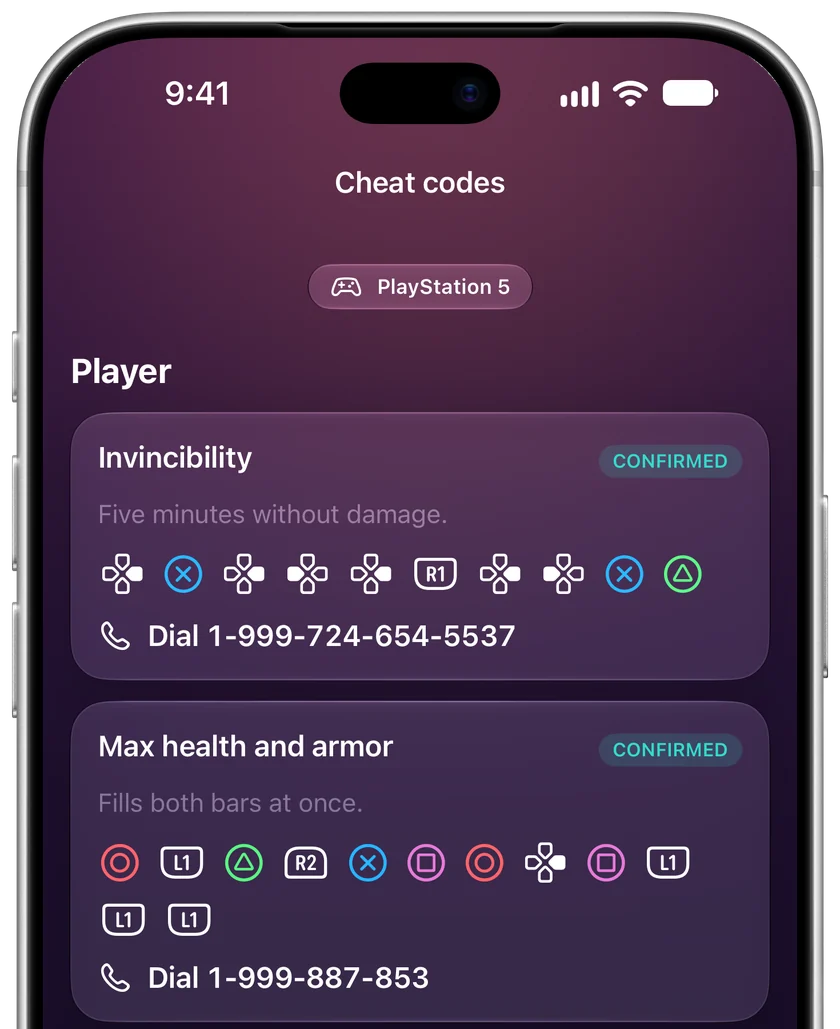
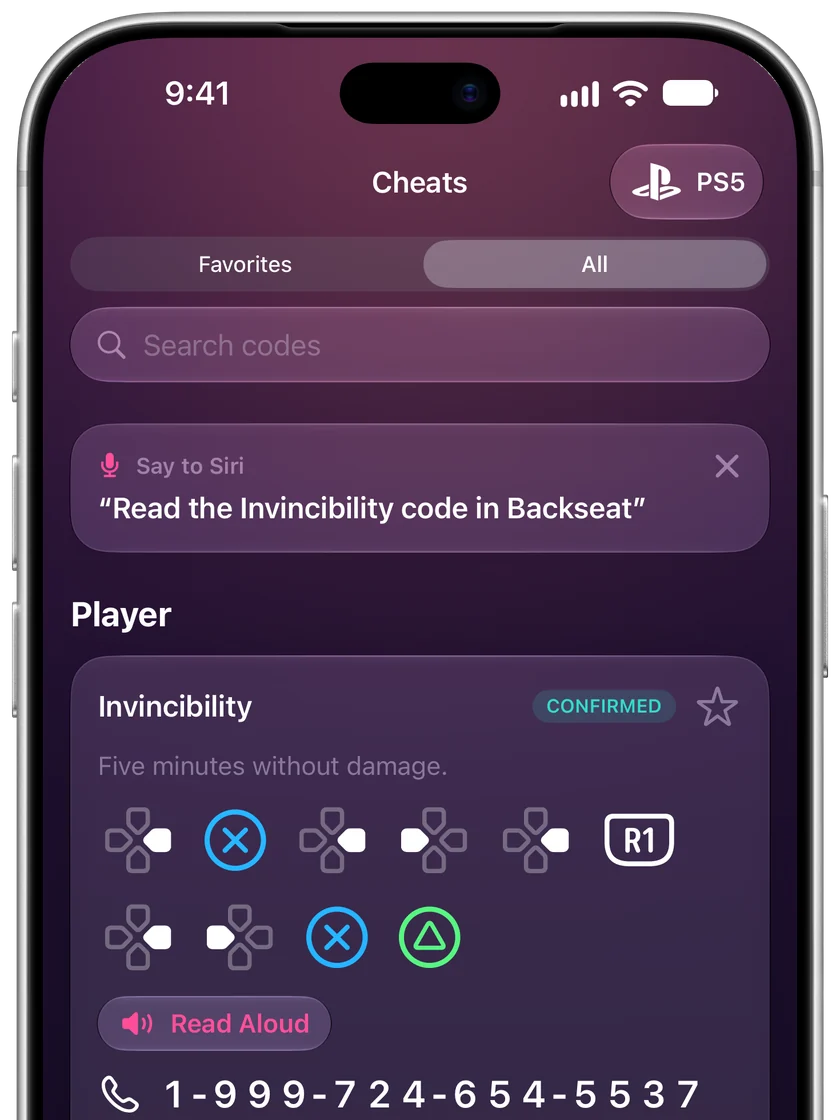
Landing for 1.2: Read Aloud, Siri and widgets, new phones
The hero combo plays Read Aloud as the app does: a pause, a ring moving from
press to press, called presses fading, Stop on the button. New panels for Read
Aloud, Siri and Shortcuts, and the widgets; Favorites and search join the codes
panel. Questions on Siri, the widgets and Backseat Pro. The phones come from the
1.2 build with GTA V codes as stand-ins (PS5 in the app, Xbox in the widget).
Meta, link preview and the unlock-times blurb mention the new features.

diff --git a/index.html b/index.html
@@ -4,7 +4,7 @@
 <meta charset="utf-8">
 <meta name="viewport" content="width=device-width, initial-scale=1, viewport-fit=cover">
 <title>Backseat: cheat codes, news and guides for GTA VI</title>
-<meta name="description" content="Backseat shows GTA VI cheat codes with the buttons for your PS5 or Xbox, plus news and short guides. A free, unofficial fan app for iPhone.">
+<meta name="description" content="Backseat shows GTA VI cheat codes with the buttons for your PS5 or Xbox and reads them aloud. Ask Siri for a code or keep one in a widget. A free, unofficial fan app for iPhone.">
 <meta name="theme-color" content="#0F0A1C">
 <meta name="apple-itunes-app" content="app-id=6830724358">
 <link rel="icon" type="image/png" href="favicon.png">
@@ -13,9 +13,9 @@
 <meta property="og:type" content="website">
 <meta property="og:site_name" content="Backseat">
 <meta property="og:title" content="Backseat: GTA VI cheat codes, guides and more">
-<meta property="og:description" content="Backseat shows GTA VI cheat codes with the buttons for your PS5 or Xbox, plus news and short guides. A free, unofficial fan app for iPhone.">
+<meta property="og:description" content="Backseat shows GTA VI cheat codes with the buttons for your PS5 or Xbox and reads them aloud. Ask Siri for a code or keep one in a widget. A free, unofficial fan app for iPhone.">
 <meta property="og:url" content="https://getbackseat.app/">
-<meta property="og:image" content="https://getbackseat.app/assets/landing/og.png?v=4">
+<meta property="og:image" content="https://getbackseat.app/assets/landing/og.png?v=5">
 <meta property="og:image:width" content="1200">
 <meta property="og:image:height" content="630">
 <meta name="twitter:card" content="summary_large_image">
@@ -26,10 +26,11 @@
   "@type": "MobileApplication",
   "name": "Backseat",
   "url": "https://getbackseat.app/",
-  "description": "Backseat shows GTA VI cheat codes with the buttons for your PS5 or Xbox, plus news and short guides. A free, unofficial fan app for iPhone.",
+  "description": "Backseat shows GTA VI cheat codes with the buttons for your PS5 or Xbox and reads them aloud. Ask Siri for a code or keep one in a widget. A free, unofficial fan app for iPhone.",
   "operatingSystem": "iOS 26.0 or later",
   "applicationCategory": "EntertainmentApplication",
   "installUrl": "https://apps.apple.com/app/id6830724358",
+  "featureList": "Cheat codes with the buttons for PS5 and Xbox Series X|S, Read Aloud, Siri and Shortcuts, Spotlight, Home Screen and Lock Screen widgets, news, guides",
   "offers": { "@type": "Offer", "price": "0", "priceCurrency": "USD" }
 }
 </script>
@@ -105,7 +106,7 @@
   .top .wrap { display: flex; align-items: center; justify-content: space-between; gap: 24px; height: 60px; }
   .brand { display: flex; align-items: center; gap: 10px; text-decoration: none; font-size: 17px; font-weight: 800; letter-spacing: -.01em; }
   .brand img { width: 32px; height: 32px; border-radius: 8px; }
-  .top nav { display: flex; align-items: center; gap: 28px; font-size: 15px; }
+  .top nav { display: flex; align-items: center; gap: 24px; font-size: 15px; }
   .top nav a { text-decoration: none; color: var(--muted); }
   .top nav a:hover { color: var(--ink); }
   .top nav .get { color: var(--ink); font-weight: 600; padding: 7px 14px; border-radius: 999px; background: rgba(255, 255, 255, .1); }
@@ -137,7 +138,7 @@
   .combo-name { font-size: 17px; font-weight: 700; }
   .combo-console { margin-left: auto; font-size: 13px; color: var(--muted); }
   .keys { list-style: none; display: flex; align-items: center; gap: min(10px, 1.5cqi); margin-top: 14px; font-size: min(44px, 8cqi); }
-  .key { flex: none; width: 1em; height: 1em; color: var(--ink); display: grid; place-items: center; transition: opacity .18s ease, transform .12s ease; }
+  .key { position: relative; flex: none; width: 1em; height: 1em; color: var(--ink); display: grid; place-items: center; transition: opacity .2s ease; }
   .key svg { width: 1em; height: 1em; overflow: visible; }
   .key.triangle { color: var(--k-triangle); }
   .key.circle { color: var(--k-circle); }
@@ -145,14 +146,17 @@
   .key.cross { color: var(--k-cross); }
   .shoulder { width: auto; height: .74em; min-width: 1.18em; padding: 0 .12em; border: max(2px, .055em) solid currentColor; border-radius: .14em .14em .3em .3em; font-size: inherit; }
   .shoulder span { font-size: .38em; font-weight: 800; letter-spacing: .02em; line-height: 1; }
-  .combo-dial { display: flex; align-items: center; gap: 10px; margin-top: 14px; font-size: 15px; color: var(--muted); transition: opacity .3s ease; }
+  /* Read Aloud, as the app draws it: a pink ring moves from press to press and the presses already called fade. */
+  .combo-read { display: inline-flex; align-items: center; gap: 8px; margin-top: 16px; padding: 6px 14px 6px 11px; border-radius: 999px; font-size: 15px; font-weight: 600; color: var(--pink); background: rgba(255, 255, 255, .07); border: 1px solid var(--line); }
+  .combo-read svg { width: 18px; height: 18px; flex: none; }
+  .combo-read .i-stop, .combo.reading .combo-read .i-read { display: none; }
+  .combo.reading .combo-read .i-stop { display: block; }
+  .combo-dial { display: flex; align-items: center; gap: 10px; margin-top: 14px; font-size: 15px; color: var(--muted); }
   .combo-dial svg { width: 18px; height: 18px; flex: none; }
   .combo-dial b { font-family: var(--mono); font-size: 16px; font-weight: 600; color: var(--ink); letter-spacing: .01em; }
-  .js .key { opacity: .26; }
-  .js .key.on { opacity: 1; }
-  .js .key.now { transform: translateY(.06em) scale(.9); }
-  .js .combo .chip, .js .combo-dial { opacity: 0; transition: opacity .3s ease; }
-  .js .combo.done .chip, .js .combo.done .combo-dial { opacity: 1; }
+  .js .key.on { opacity: .28; }
+  .js .key.now::after { content: ""; position: absolute; inset: -.16em; border-radius: 50%; border: max(2px, .05em) solid var(--pink); background: rgba(255, 79, 153, .16); box-shadow: 0 0 .4em rgba(255, 79, 153, .55); }
+  .js .shoulder.now::after { inset: -.22em -.18em; border-radius: .26em .26em .4em .4em; }
 
   /* Feature panels */
   .features { display: grid; gap: clamp(20px, 3vw, 32px); padding-block: clamp(56px, 8vw, 104px) 0; }
@@ -204,8 +208,10 @@
   footer p + p { margin-top: 8px; }
   footer p { max-width: 62em; }
 
-  @media (max-width: 900px) {
+  @media (max-width: 1040px) {
     .top nav a:not(.get) { display: none; }
+  }
+  @media (max-width: 900px) {
     .hero-grid { grid-template-columns: 1fr; gap: 0; }
     .hero-copy { padding-block: 44px 8px; }
     .hero-phone { width: min(86%, 360px); padding-top: 36px; }
@@ -227,7 +233,7 @@
   }
   @media (prefers-reduced-motion: reduce) {
     html { scroll-behavior: auto; }
-    .key, .combo-dial, .js .combo .chip { transition: none; }
+    .key { transition: none; }
   }
 </style>
 </head>
@@ -257,6 +263,8 @@
       </g>
       <path d="M3.2 10.4v7.2h6.4l3.6-3.6-3.6-3.6Z" fill="currentColor" stroke="currentColor" stroke-width="1.5" stroke-linejoin="round"/>
     </symbol>
+    <symbol id="k-speaker" viewBox="0 0 24 24"><path d="M3.5 9.2h3.2L11.5 5v14l-4.8-4.2H3.5Z" fill="currentColor"/><path d="M15 9.2a4 4 0 0 1 0 5.6M17.8 6.6a7.6 7.6 0 0 1 0 10.8" fill="none" stroke="currentColor" stroke-width="1.8" stroke-linecap="round"/></symbol>
+    <symbol id="k-stop" viewBox="0 0 24 24"><rect x="6" y="6" width="12" height="12" rx="2.5" fill="currentColor"/></symbol>
     <symbol id="k-phone" viewBox="0 0 24 24"><path d="M6.6 3.5 9 3.2l1.6 4.1-2 1.5a12 12 0 0 0 6.6 6.6l1.5-2 4.1 1.6-.3 2.4a2 2 0 0 1-2.1 1.7A16.6 16.6 0 0 1 4.9 5.6a2 2 0 0 1 1.7-2.1Z" fill="none" stroke="currentColor" stroke-width="1.6" stroke-linejoin="round"/></symbol>
   </defs>
 </svg>
@@ -267,8 +275,10 @@
     <nav aria-label="Sections">
       <a href="unlock-times/">Unlock times</a>
       <a href="#codes">Codes</a>
+      <a href="#read-aloud">Read Aloud</a>
+      <a href="#siri">Siri</a>
+      <a href="#widgets">Widgets</a>
       <a href="#news">News</a>
-      <a href="#guides">Guides</a>
       <a href="#questions">Questions</a>
       <a class="get" href="https://apps.apple.com/app/id6830724358">Get the app</a>
     </nav>
@@ -301,18 +311,19 @@
             <li class="key cross"><svg><use href="#k-cross"/></svg></li>
             <li class="key triangle"><svg><use href="#k-triangle"/></svg></li>
           </ol>
+          <p class="combo-read" aria-hidden="true"><svg class="i-read"><use href="#k-speaker"/></svg><svg class="i-stop"><use href="#k-stop"/></svg><span>Read Aloud</span></p>
           <p class="combo-dial" aria-hidden="true"><svg><use href="#k-phone"/></svg>or dial <b>1-999-724-654-5537</b></p>
         </figure>
 
-        <p class="lede">Backseat shows cheat codes with the buttons for your PlayStation&nbsp;5 or Xbox Series&nbsp;X|S. You also get the day’s news and short guides, each with a link to its source.</p>
+        <p class="lede">Backseat shows each cheat code as the buttons for your PlayStation&nbsp;5 or Xbox Series&nbsp;X|S and reads it out press by press. Ask Siri for a code without putting down the controller, or keep your favorites in a widget. You also get the day’s news and short guides, each with a link to its source.</p>
         <div class="cta">
           <a class="store" href="https://apps.apple.com/app/id6830724358"><img src="assets/app-store-badge.svg" alt="Download on the App Store" width="168" height="56"></a>
           <p class="cta-note">Free for iPhone. Install it before the next mission.</p>
         </div>
       </div>
       <div class="hero-phone">
-        <img src="assets/landing/phone-codes-player.webp" width="840" height="1029" fetchpriority="high"
-          alt="The Codes screen in Backseat with PlayStation 5 picked: Invincibility and Max health and armor, each with its buttons and a number to dial.">
+        <img src="assets/landing/phone-codes-player.webp" width="840" height="1120" fetchpriority="high"
+          alt="The Cheats screen in Backseat with PlayStation 5 picked: Favorites and All, a search field, a card with the Siri phrase “Read the Invincibility code in Backseat”, and Invincibility with its buttons and a Read Aloud button.">
       </div>
     </div>
   </section>
@@ -324,17 +335,65 @@
         <h2 class="display" id="codes-title">Your console, your buttons</h2>
         <p>Pick PlayStation&nbsp;5 or Xbox Series&nbsp;X|S once, and the app shows each code as the buttons on your controller, in the order you press them. If the game also takes a code on the in-game phone, you get the number to dial.</p>
         <dl class="points">
+          <div><dt>Favorites first</dt><dd>Star the codes you use to keep them under Favorites. Type a name in the search field to find any other code.</dd></div>
           <div><dt>No app update for new codes</dt><dd>We add new codes on our server, and you see them without updating the app. Turn on notifications and we’ll tell you when they arrive.</dd></div>
-          <div><dt>Groups by type</dt><dd>You find the helicopter under Vehicles without scrolling past the armor.</dd></div>
         </dl>
       </div>
       <div class="panel-phone">
-        <img src="assets/landing/phone-codes-vehicles.webp" width="840" height="984" loading="lazy"
-          alt="Vehicle codes in Backseat: Attack helicopter and Sports car with PlayStation 5 buttons and phone numbers.">
+        <img src="assets/landing/phone-codes-favorites.webp" width="840" height="1029" loading="lazy"
+          alt="Favorites in Backseat: Invincibility and Attack helicopter, starred, with PlayStation 5 buttons, phone numbers and Read Aloud buttons.">
       </div>
     </section>
 
-    <section class="panel flip" id="news" aria-labelledby="news-title">
+    <section class="panel flip" id="read-aloud" aria-labelledby="read-title">
+      <div class="panel-copy">
+        <p class="eyebrow">Read Aloud</p>
+        <h2 class="display" id="read-title">Keep your eyes on the TV</h2>
+        <p>Tap Read Aloud and look back at the game. After a short pause, a voice calls out each press while a ring moves across the buttons, and you feel a tap for each one. It reads phone numbers digit by digit.</p>
+        <dl class="points">
+          <div><dt>Three speeds</dt><dd>Slow leaves time to find each button. Pick the speed in Settings.</dd></div>
+          <div><dt>Works on silent</dt><dd>The voice plays when your iPhone is on silent, and the screen stays on until the code ends.</dd></div>
+          <div><dt>In your language</dt><dd>The voice speaks the language of the app: English and 22 more.</dd></div>
+        </dl>
+      </div>
+      <div class="panel-phone">
+        <img src="assets/landing/phone-codes-reading.webp" width="840" height="1046" loading="lazy"
+          alt="Read Aloud in Backseat: a pink ring sits on R1 in the Attack helicopter code, the presses already called are faded, and the button reads Stop.">
+      </div>
+    </section>
+
+    <section class="panel" id="siri" aria-labelledby="siri-title">
+      <div class="panel-copy">
+        <p class="eyebrow">Siri and Shortcuts</p>
+        <h2 class="display" id="siri-title">Ask Siri, keep the controller</h2>
+        <p>Say “Read the Invincibility code in Backseat”, and the app opens the code and reads it out while you hold the controller. Ask “What’s the Parachute code in Backseat” and Siri tells you the buttons. “Show cheat codes in Backseat” opens the list.</p>
+        <dl class="points">
+          <div><dt>Every code, by name</dt><dd>Each code in the app is a Siri and Shortcuts action. Siri learns new codes once the app has loaded them.</dd></div>
+          <div><dt>Spotlight too</dt><dd>Type a code’s name in Spotlight to open it in Backseat.</dd></div>
+        </dl>
+      </div>
+      <div class="panel-phone">
+        <img src="assets/landing/phone-siri-shortcuts.webp" width="840" height="937" loading="lazy"
+          alt="Backseat in the Shortcuts app: Cheat Codes, Get Cheat Code with an action for each code, and Read Code Aloud.">
+      </div>
+    </section>
+
+    <section class="panel flip" id="widgets" aria-labelledby="widgets-title">
+      <div class="panel-copy">
+        <p class="eyebrow">Widgets</p>
+        <h2 class="display" id="widgets-title">Codes on your Home Screen</h2>
+        <p>The Cheat code widget shows your favorites with the buttons for your console, or one code you pick. With no favorites, it shows a code of the day. The Countdown widget counts down to the next date we know of.</p>
+        <dl class="points">
+          <div><dt>Lock Screen with Backseat Pro</dt><dd>Put a code under the clock, so it’s there when you pick up your iPhone. Pro is a one-time purchase and also lifts the limit of three favorites.</dd></div>
+        </dl>
+      </div>
+      <div class="panel-phone">
+        <img src="assets/landing/phone-widgets.webp" width="840" height="937" loading="lazy"
+          alt="The large Cheat code widget on the Home Screen: Invincibility, Attack helicopter and Sports car with Xbox Series X|S buttons.">
+      </div>
+    </section>
+
+    <section class="panel" id="news" aria-labelledby="news-title">
       <div class="panel-copy">
         <p class="eyebrow">News</p>
         <h2 class="display" id="news-title">The day’s news in a few lines</h2>
@@ -351,7 +410,7 @@
       </div>
     </section>
 
-    <section class="panel" id="guides" aria-labelledby="guides-title">
+    <section class="panel flip" id="guides" aria-labelledby="guides-title">
       <div class="panel-copy">
         <p class="eyebrow">Guides</p>
         <h2 class="display" id="guides-title">Tips that save you a reload</h2>
@@ -376,16 +435,24 @@
         <p>Some cheats also work through your character’s phone in the game. Open the phone, type the number on its keypad and call. The cheat turns on the same way as with the buttons. If a code works both ways, the app shows both.</p>
       </details>
       <details>
+        <summary>Can Siri read a code to me?</summary>
+        <p>Yes. Say “Read the Invincibility code in Backseat”, with the name of any code, and Backseat opens it and reads out the presses. Ask “What’s the Invincibility code in Backseat” and Siri tells you the buttons. Siri knows every code in the app, including ones we add after you install it.</p>
+      </details>
+      <details>
         <summary>Do I need to update the app to get new codes?</summary>
-        <p>No. The app loads codes, news and guides from our server when you open it. Pull down on any screen to check now.</p>
+        <p>No. The app loads codes, news and guides from our server when you open it, and Siri, Spotlight and the widgets get the new codes too. Pull down on any screen to check now.</p>
       </details>
       <details>
         <summary>Which consoles does it cover?</summary>
         <p>PlayStation 5, including PS5 Pro, and Xbox Series X|S. Pick yours the first time you open the app and change it any time from the badge at the top of the screen.</p>
       </details>
       <details>
+        <summary>Which widgets are there?</summary>
+        <p>Two. Cheat code shows your favorites, a code you pick or a code of the day, in three sizes on the Home Screen and, with Backseat Pro, on the Lock Screen. Countdown counts down to the next date we know of.</p>
+      </details>
+      <details>
         <summary>What does it cost?</summary>
-        <p>Backseat is free to download on the App Store.</p>
+        <p>Backseat is free to download on the App Store. Backseat Pro, a one-time purchase with no subscription, puts codes on your Lock Screen and lifts the limit of three favorites.</p>
       </details>
     </div>
   </section>
@@ -411,7 +478,8 @@
 </footer>
 
 <script>
-  // The combo in the hero: presses light up one by one, then the status and the number appear.
+  // The combo in the hero plays Read Aloud: after a short pause a ring moves from press to press, the presses
+  // already called fade, and the button reads Stop until the code ends.
   (function () {
     var combo = document.querySelector(".combo");
     if (!combo || !("IntersectionObserver" in window)) return;
@@ -419,35 +487,32 @@
     if (reduce.matches) return;
     document.documentElement.classList.add("js");
     var keys = combo.querySelectorAll(".key");
-    var step = 0, timer = null;
+    var label = combo.querySelector(".combo-read span");
+    var step = -1, timer = null;
 
-    function show(count) {
+    function show(current, reading) {
       for (var i = 0; i < keys.length; i++) {
-        keys[i].classList.toggle("on", i < count);
-        keys[i].classList.toggle("now", i === count - 1);
+        keys[i].classList.toggle("on", reading && i < current);
+        keys[i].classList.toggle("now", reading && i === current);
       }
-      combo.classList.toggle("done", count >= keys.length);
+      combo.classList.toggle("reading", reading);
+      label.textContent = reading ? "Stop" : "Read Aloud";
     }
     function tick() {
       step += 1;
-      if (step <= keys.length) {
-        show(step);
-        timer = setTimeout(function () {
-          keys[step - 1].classList.remove("now");
-          timer = setTimeout(tick, 150);
-        }, 120);
-      } else {
-        timer = setTimeout(function () { step = 0; show(0); timer = setTimeout(tick, 700); }, 2800);
-      }
+      if (step < keys.length) { show(step, true); timer = setTimeout(tick, 480); }
+      else { step = -1; show(-1, false); timer = setTimeout(start, 2600); }
     }
-    function stop() { clearTimeout(timer); timer = null; }
+    // The app waits 0.7 seconds before the first press, long enough to look from the phone to the controller.
+    function start() { step = -1; show(-1, true); timer = setTimeout(tick, 700); }
+    function stop() { clearTimeout(timer); timer = null; step = -1; show(-1, false); }
 
     new IntersectionObserver(function (entries) {
-      if (entries[0].isIntersecting) { if (!timer) { step = 0; show(0); timer = setTimeout(tick, 500); } }
-      else { stop(); show(keys.length); }
+      if (entries[0].isIntersecting) { if (!timer) timer = setTimeout(start, 500); }
+      else stop();
     }).observe(combo);
     reduce.addEventListener("change", function (e) {
-      if (e.matches) { stop(); document.documentElement.classList.remove("js"); show(keys.length); }
+      if (e.matches) { stop(); document.documentElement.classList.remove("js"); }
     });
   })();
 </script>

diff --git a/unlock-times/index.html b/unlock-times/index.html
@@ -260,7 +260,7 @@
         </details>
         <details>
           <summary>What is Backseat?</summary>
-          <p>An unofficial fan app for iPhone. Before launch it counts down to the moment the game unlocks on your console, on your Lock Screen and in a Live Activity. After launch it shows cheat codes with the buttons for your controller.</p>
+          <p>An unofficial fan app for iPhone. Before launch it counts down to the moment the game unlocks on your console, on your Lock Screen and in a Live Activity. After launch it shows cheat codes with the buttons for your controller and reads them out press by press. You can ask Siri for a code, and a widget keeps your favorites on the Home Screen.</p>
         </details>
       </div>
     </section>

diff --git a/README.md b/README.md
@@ -6,7 +6,7 @@ Privacy policy, terms of use and support page for Backseat, an unofficial fan ap
 - `support/`: the contact address; the listing's Support URL points here.
 - `index.html`: the landing page, written for after the game's release: cheat codes, news, guides, questions. `404.html`: any other address.
 - `unlock-times/`: when GTA VI unlocks on PS5 and Xbox, in the visitor's own time zone, with the US and Canada table. The moments in its script follow `Shared/launch.json` in the app's repository; change both together. `assets/unlock-times/og.png` is its link preview, written by `scripts/social-unlock-times.py` there.
-- `assets/landing/`: the phones on the landing (simulator captures in Apple's iPhone 18 Pro Max bezel, top part only) and `og.png`, the link preview. The code screens show GTA V codes on PS5 as stand-ins; take them again once the app has the real codes.
+- `assets/landing/`: the phones on the landing (simulator captures in Apple's iPhone 18 Pro Max bezel, top part only) and `og.png`, the link preview. Cheats with the Siri card, Favorites, Read Aloud on a press, Backseat's page in Shortcuts and the large Cheat code widget come from version 1.2; News and Guides from 1.1. The code screens and the widget show GTA V codes on PS5 and Xbox as stand-ins; take them again once the app has the real codes.
 - `assets/fonts/`: Anton, the icon's typeface, cut to Latin, under the SIL Open Font License (`OFL-Anton.txt`).
 
 Backseat is not affiliated with, endorsed or sponsored by Rockstar Games or Take-Two Interactive.
